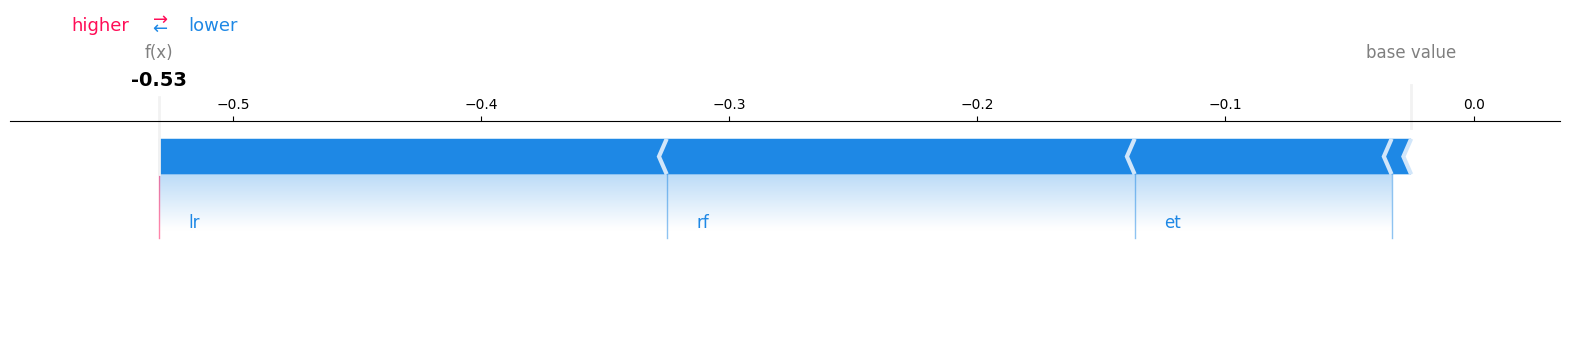
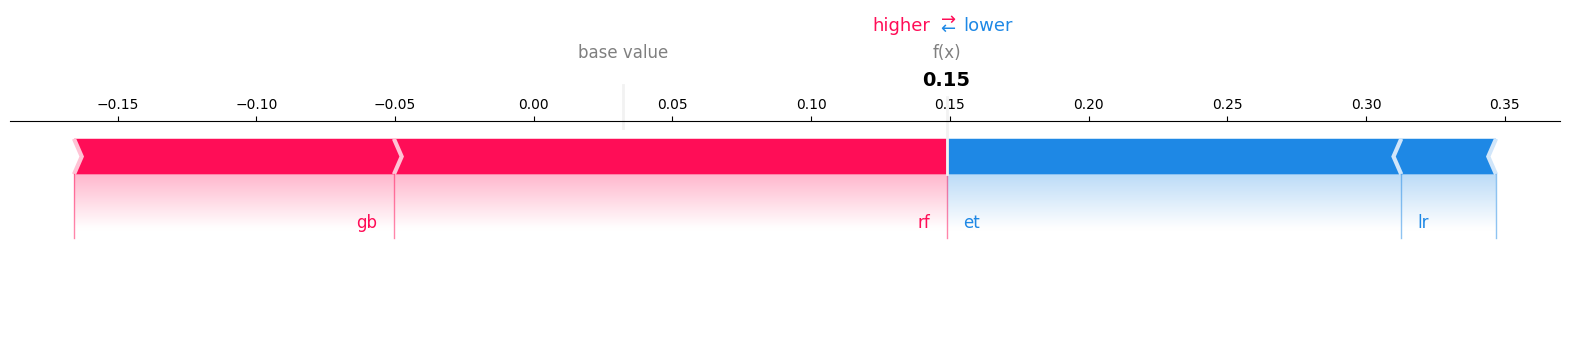
Changes in the shaply of centralised

diff --git a/Models/90A_Centralised_Shapely_.py b/Models/90A_Centralised_Shapely_.py
@@ -1,43 +1,71 @@
-import pandas as pd
+import os
 import numpy as np
+import pandas as pd
 from sklearn.model_selection import train_test_split, KFold
-from sklearn.preprocessing import StandardScaler 
+from sklearn.preprocessing import StandardScaler
 from sklearn.linear_model import LogisticRegression, RidgeClassifier
 from sklearn.ensemble import RandomForestClassifier, ExtraTreesClassifier, GradientBoostingClassifier
 from sklearn.metrics import accuracy_score, classification_report
+from sklearn.impute import SimpleImputer
 import shap
 import matplotlib.pyplot as plt
-import os
 
 # ==============================
-# 1⃣ Load & preprocess dataset
+# 1⃣ Load & merge all 4 datasets
 # ==============================
-df = pd.read_csv("Dataset/processed.cleveland.data", header=None)
-df.replace('?', pd.NA, inplace=True)
-df = df.dropna().apply(pd.to_numeric)
+dataset_paths = [
+    "Dataset/processed.cleveland.data",
+    "Dataset/processed.hungarian.data",
+    "Dataset/processed.switzerland.data",
+    "Dataset/processed.va.data"
+]
 
+df_list = []
+for path in dataset_paths:
+    if not os.path.exists(path):
+        print(f"Missing file: {path}")
+        continue
+    df = pd.read_csv(path, header=None)
+    df.replace('?', np.nan, inplace=True)
+
+    # Impute missing values using median
+    imputer = SimpleImputer(strategy="median")
+    df = pd.DataFrame(imputer.fit_transform(df))
+
+    if df.empty:
+        print(f"Skipping {path} (empty after cleaning)")
+        continue
+    df_list.append(df)
+
+# Combine all hospitals into one centralized dataset
+df = pd.concat(df_list, ignore_index=True)
+print(f"\nCombined dataset shape: {df.shape}")
+
+# ==============================
+# 2⃣ Preprocessing
+# ==============================
 X = df.iloc[:, :-1].values
-y = (df.iloc[:, -1] > 0).astype(int).values
+y = (df.iloc[:, -1] > 0).astype(int).values  # Convert to binary
 
 scaler = StandardScaler()
 X_scaled = scaler.fit_transform(X)
 
 X_train, X_test, y_train, y_test = train_test_split(
-    X_scaled, y, test_size=0.2, random_state=42
+    X_scaled, y, test_size=0.2, random_state=42, stratify=y
 )
 
 # ==============================
-# 2⃣ Define base models
+# 3⃣ Define base models
 # ==============================
 base_models = [
-    ('rf', RandomForestClassifier(n_estimators=300, max_depth=6, random_state=42)),
-    ('et', ExtraTreesClassifier(n_estimators=300, max_depth=6, random_state=42)),
-    ('gb', GradientBoostingClassifier(n_estimators=300, learning_rate=0.05, max_depth=4, random_state=42)),
-    ('lr', LogisticRegression(max_iter=1000))
+    ('rf', RandomForestClassifier(n_estimators=300, max_depth=8, random_state=42)),
+    ('et', ExtraTreesClassifier(n_estimators=300, max_depth=8, random_state=42)),
+    ('gb', GradientBoostingClassifier(n_estimators=300, learning_rate=0.05, max_depth=5, random_state=42)),
+    ('lr', LogisticRegression(max_iter=1000, random_state=42))
 ]
 
 # ==============================
-# 3⃣ Generate stacking features using K-Fold
+# 4⃣ Stacking (K-Fold based)
 # ==============================
 kf = KFold(n_splits=5, shuffle=True, random_state=42)
 train_meta = np.zeros((X_train.shape[0], len(base_models)))
@@ -48,67 +76,74 @@ for i, (name, model) in enumerate(base_models):
     for fold, (tr_idx, val_idx) in enumerate(kf.split(X_train)):
         X_tr, X_val = X_train[tr_idx], X_train[val_idx]
         y_tr, y_val = y_train[tr_idx], y_train[val_idx]
-
         model.fit(X_tr, y_tr)
         train_meta[val_idx, i] = model.predict(X_val)
         test_fold_preds[:, fold] = model.predict(X_test)
-
-    test_meta[:, i] = test_fold_preds.mean(axis=1)  # average predictions across folds
+    test_meta[:, i] = test_fold_preds.mean(axis=1)
 
 # ==============================
-# 4⃣ Meta-model
+# 5⃣ Meta-model (Ridge Classifier)
 # ==============================
 meta_model = RidgeClassifier()
 meta_model.fit(train_meta, y_train)
 stack_pred = meta_model.predict(test_meta)
 
 # ==============================
-# 5⃣ Evaluate
+# 6⃣ Evaluate
 # ==============================
 acc = accuracy_score(y_test, stack_pred)
 report = classification_report(y_test, stack_pred)
 
-print("Power Boost Ensemble Accuracy:", acc)
+print(f"\nPower Boost Ensemble Accuracy (All 4 Datasets): {acc:.4f}")
 print("\nClassification Report:\n", report)
 
-os.makedirs("results", exist_ok=True)
-with open("results/power_ensemble_report.txt", "w") as f:
-    f.write(f"Power Boost Ensemble Accuracy: {acc}\n\n")
+# ---------- Save results ----------
+save_path = r"C:\Users\InduS\OneDrive\Desktop\UROP Project\Project-Test-1\HeartDisease\results\Centralised_Shapely"
+os.makedirs(save_path, exist_ok=True)
+output_path = os.path.join(save_path, "power_ensemble_all_datasets_report.txt")
+
+with open(output_path, "w", encoding="utf-8") as f:
+    f.write(f"Power Boost Ensemble Accuracy (All 4 Datasets): {acc:.4f}\n\n")
+    f.write("Classification Report:\n")
     f.write(report)
 
-# ==============================
-# 6⃣ Shapley Value Interpretability (Updated)
-# ==============================
-# Use the new SHAP masker API
-masker = shap.maskers.Independent(train_meta)
+print(f"\nResults saved at: {output_path}")
 
-# Create explainer using current SHAP version syntax
+# ==============================
+# 7⃣ SHAP Explainability (Meta-Model)
+# ==============================
+print("\nRunning SHAP explainability analysis...")
+
+masker = shap.maskers.Independent(train_meta)
 explainer = shap.Explainer(meta_model, masker)
 shap_values = explainer(test_meta)
 
-# Plot summary (importance of base models in meta-model decision)
-plt.figure()
-shap.summary_plot(shap_values.values, test_meta, feature_names=[name for name, _ in base_models], show=False)
-plt.savefig("results/shap_summary_meta_model.png", bbox_inches='tight')
-plt.close()
-
-# Optional: visualize for a single prediction
-# ---------- Create folder for centralized SHAP results ----------
-save_path = r"C:\Users\InduS\OneDrive\Desktop\UROP Project\Project-Test-1\HeartDisease\results\Centralised_Shapely"
-os.makedirs(save_path, exist_ok=True)
-
-# ---------- Save summary SHAP plot ----------
+# ---------- SHAP Summary Plot ----------
 plt.figure()
 shap.summary_plot(
-    shap_values.values, 
-    test_meta, 
-    feature_names=[name for name, _ in base_models], 
+    shap_values.values,
+    test_meta,
+    feature_names=[name for name, _ in base_models],
     show=False
 )
-plt.savefig(os.path.join(save_path, "shap_summary_meta_model.png"), bbox_inches='tight')
+plt.title("SHAP Summary Plot - Centralized Meta-Model (All 4 Datasets)")
+plt.savefig(os.path.join(save_path, "shap_summary_meta_model.png"), bbox_inches="tight")
 plt.close()
 
-# ---------- Save single prediction SHAP force plot ----------
+# ---------- SHAP Bar Plot ----------
+plt.figure()
+shap.summary_plot(
+    shap_values.values,
+    test_meta,
+    feature_names=[name for name, _ in base_models],
+    plot_type="bar",
+    show=False
+)
+plt.title("SHAP Feature Importance (Bar Plot) - Centralized Meta-Model")
+plt.savefig(os.path.join(save_path, "shap_bar_plot_meta_model.png"), bbox_inches="tight")
+plt.close()
+
+# ---------- SHAP Single Prediction ----------
 sample_index = 5
 plt.figure()
 shap.plots.force(
@@ -118,7 +153,7 @@ shap.plots.force(
     matplotlib=True,
     show=False
 )
-plt.savefig(os.path.join(save_path, "shap_single_prediction.png"), bbox_inches='tight')
+plt.savefig(os.path.join(save_path, "shap_single_prediction.png"), bbox_inches="tight")
 plt.close()
 
-print(f"\nSHAP interpretability plots saved in '{save_path}' folder.")
+print(f"SHAP plots saved successfully in: {save_path}")
